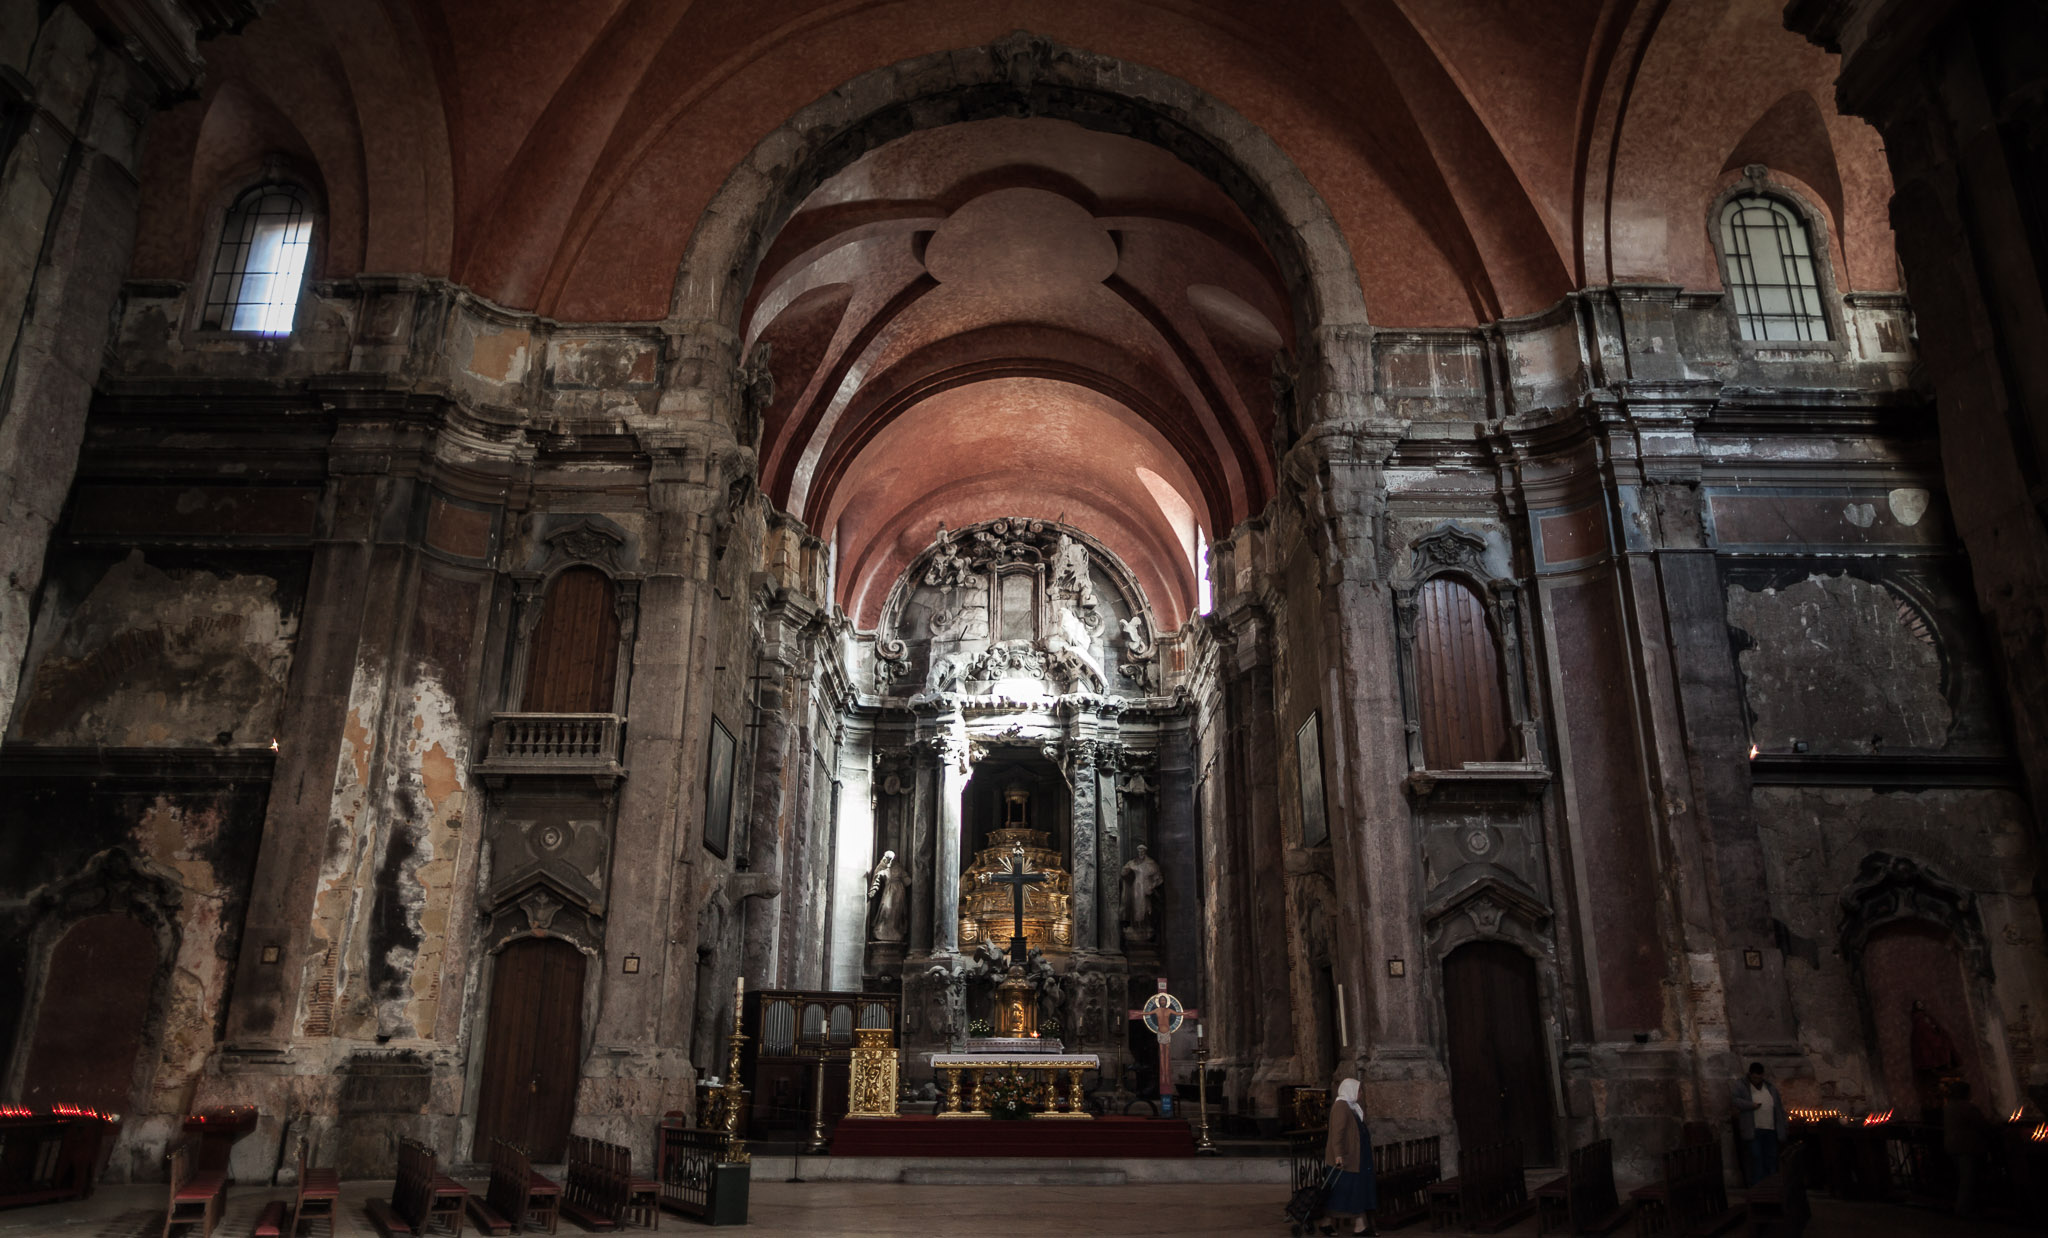
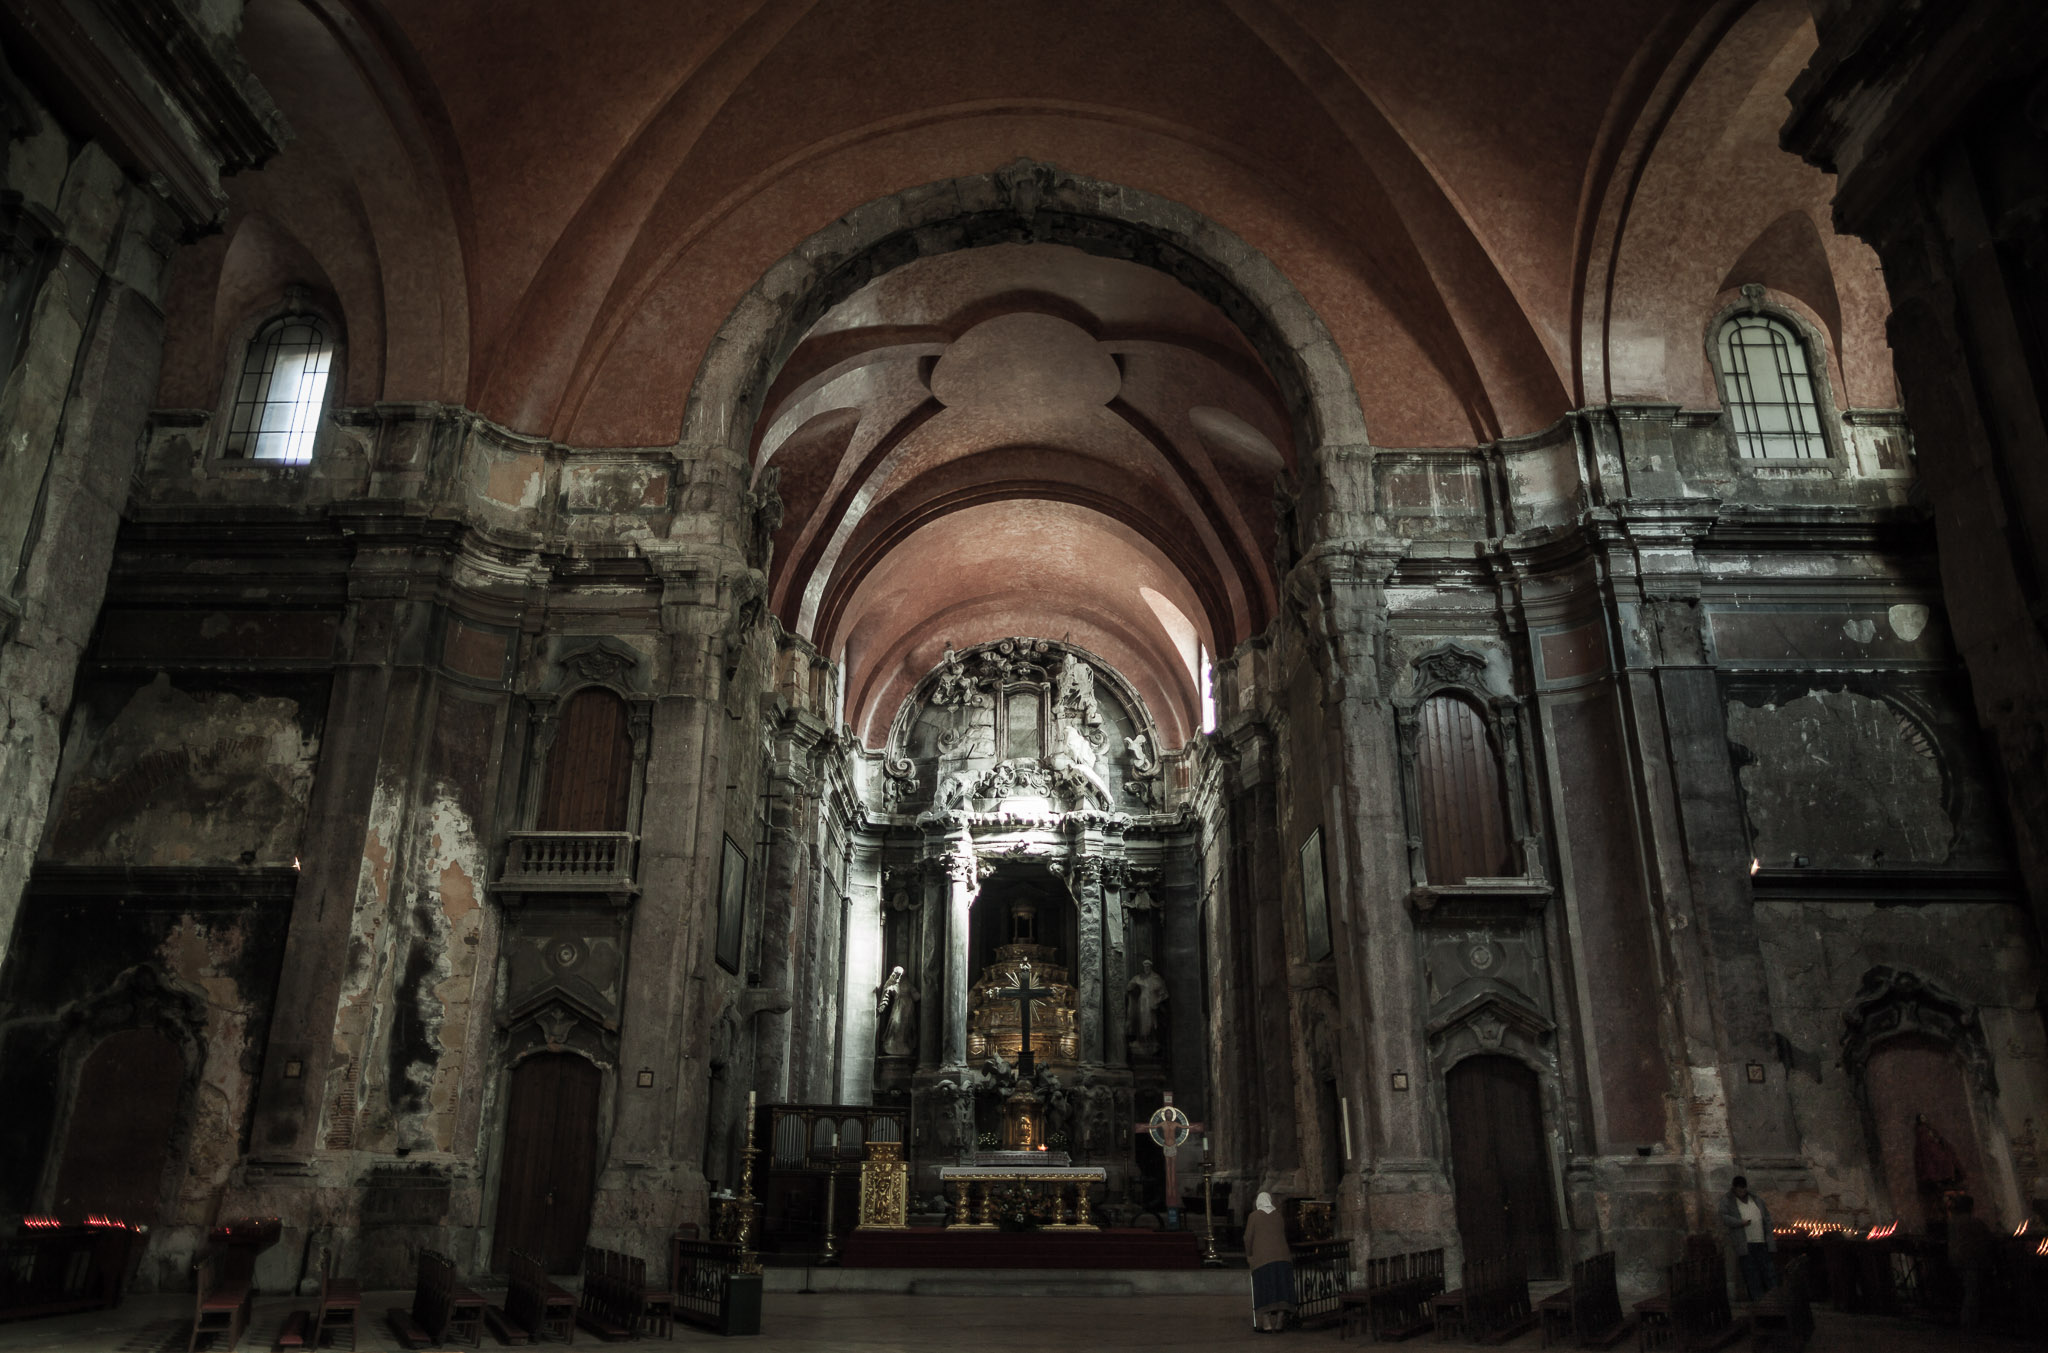
Retouche de photos.

diff --git a/source/posts/2013-10-30-mude-1.html.md b/source/posts/2013-10-30-mude-1.html.md
@@ -1,5 +1,5 @@
 ---
 date: 2013-10-30 15:00:00
-description: Scénographie pour une expo de mode, <em>Museu de Design e da Moda</em>, Lisbonne.
+description: Scénographie pour une expo de Felipe Oliveira Baptista, <em>Museu de Design e da Moda</em>, Lisbonne.
 counter: 1/3
 ---

diff --git a/source/posts/2013-10-30-mude-2.html.md b/source/posts/2013-10-30-mude-2.html.md
@@ -1,5 +1,5 @@
 ---
 date: 2013-10-30 15:01:00
-description: Scénographie pour une expo de mode, <em>Museu de Design e da Moda</em>, Lisbonne.
+description: Scénographie pour une expo de Felipe Oliveira Baptista, <em>Museu de Design e da Moda</em>, Lisbonne.
 counter: 2/3
 ---

diff --git a/source/posts/2013-10-30-mude-3.html.md b/source/posts/2013-10-30-mude-3.html.md
@@ -1,5 +1,5 @@
 ---
 date: 2013-10-30 15:10:00
-description: Scénographie pour une expo de mode, <em>Museu de Design e da Moda</em>, Lisbonne.
+description: Scénographie pour une expo de Felipe Oliveira Baptista, <em>Museu de Design e da Moda</em>, Lisbonne.
 counter: 3/3
 ---
